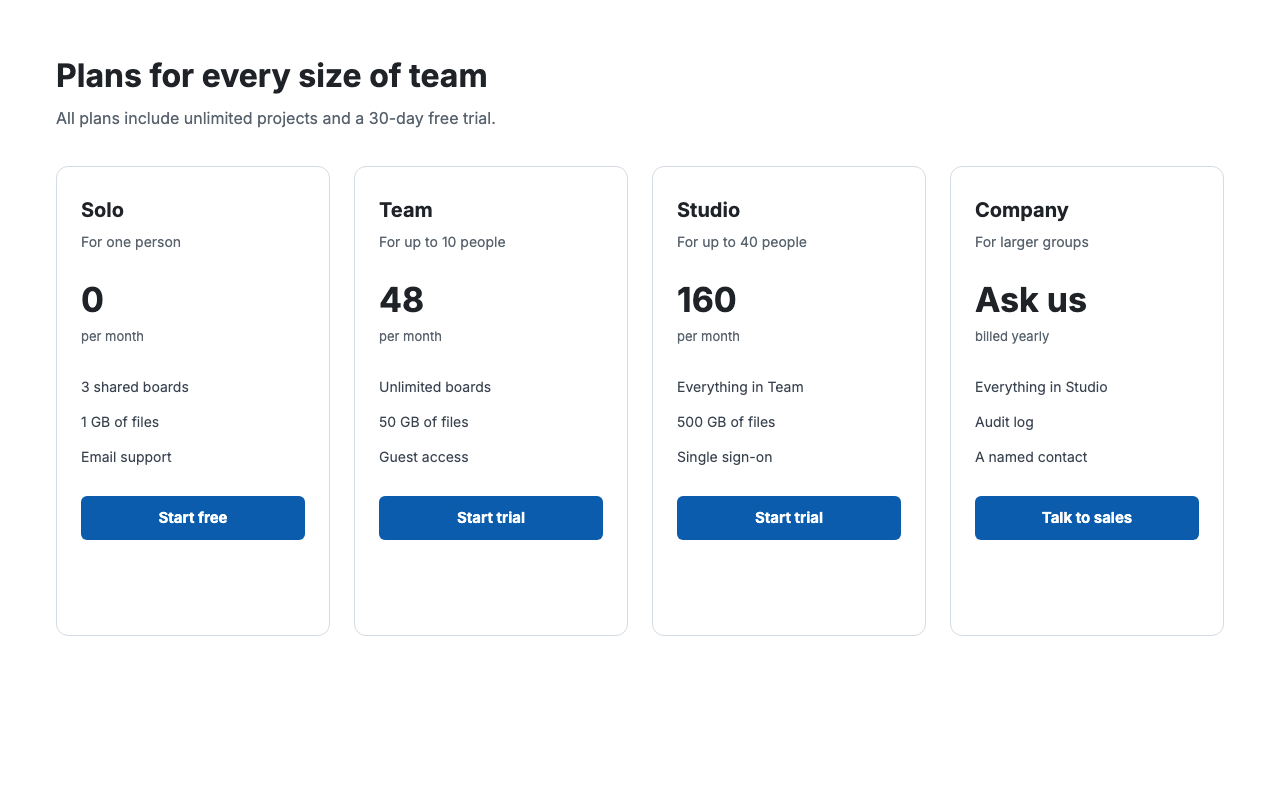
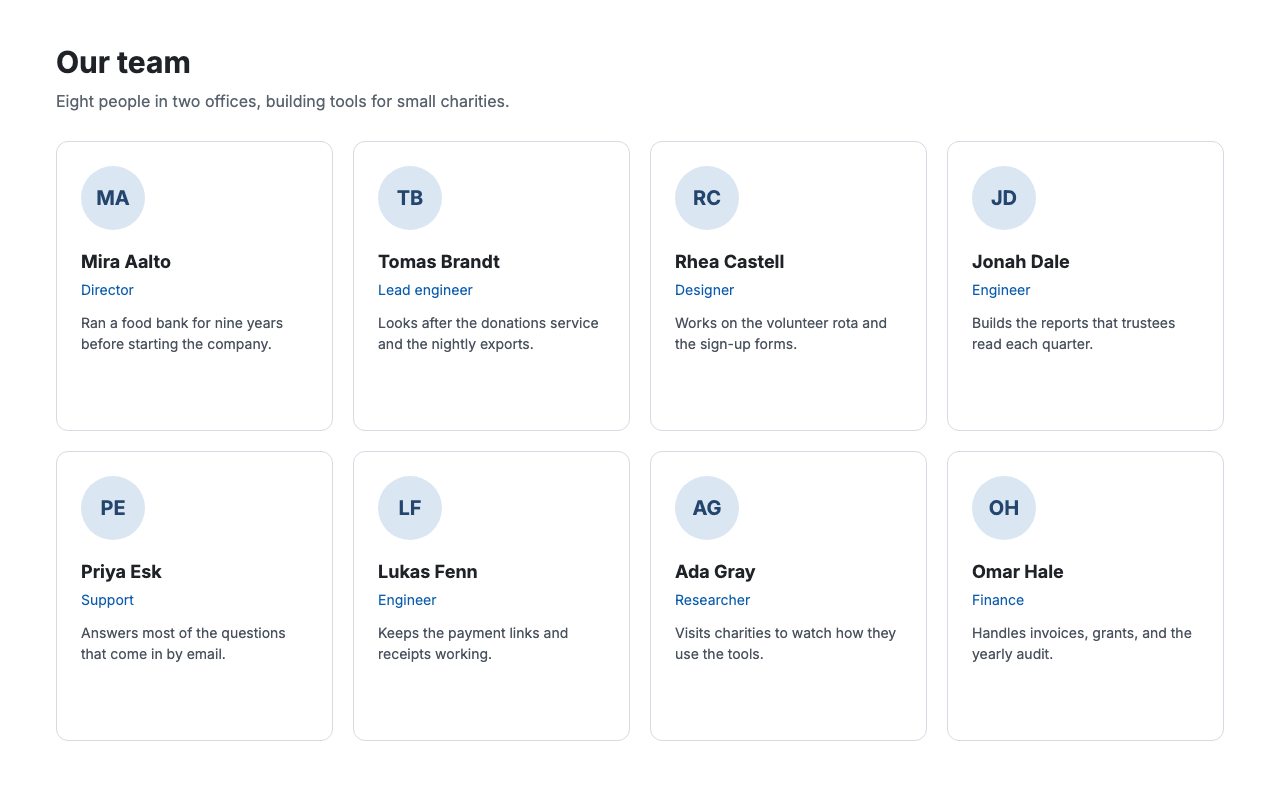
fix(packs): replace inconsistent-styles pair 2
Benjamin Jackson rejected the pricing-card pair with the note "reads
like a featured plan": on a pricing page, one card that looks different
reads as emphasis on purpose. The new pair is an "Our team" page with
eight member cards. No member has a reason to stand out, so the one
card with a grey fill, no border, and square corners reads as a
mistake. The pair uses the same defect.json and changes only declared
properties (FR-54 rule 3). It is written blind, for a reason that names
no answer from Jev (FR-54 rule 1).

Ticket: crit-cy8.18
PRD: FR-54, EV-4

Claude-Session: https://claude.ai/code/session_018ZcsNpaRtQyYZ2QBbu3enj

diff --git a/packs/layout/templates/inconsistent-repeated-styles--2.html b/packs/layout/templates/inconsistent-repeated-styles--2.html
@@ -7,28 +7,30 @@
     <script src="../../_renderer/base.js"></script>
     <link rel="stylesheet" href="../../_renderer/base.css">
     <style>
-      /* A pricing page with four plan cards in a row on a white page. Each card is white with a 1 px grey border and 12 px corners. The defect gives the third card a pale grey fill, no border, and square corners, as when one card comes from an older component. (OQ-17) */
-      h1 { font-size: 32px; text-align: left; padding: 52px 56px 6px; }
-      .sub { padding: 0 56px 36px; color: var(--color-muted); font-size: 16px; }
-      .row { display: flex; gap: 24px; padding: 0 56px; }
-      .plan { flex: 1; height: 470px; background: #fff; border: 1px solid #d5dbe2; border-radius: 12px; padding: 28px 24px; }
-      .plan h2 { font-size: 20px; margin-bottom: 6px; }
-      .plan .for { font-size: 14px; color: var(--color-muted); margin-bottom: 22px; }
-      .plan .price { font-size: 34px; font-weight: 700; margin-bottom: 2px; }
-      .plan .per { font-size: 13px; color: var(--color-muted); margin-bottom: 22px; }
-      .plan li { list-style: none; font-size: 14px; padding: 7px 0; color: #3a4350; }
-      .plan a { display: block; margin-top: 22px; text-align: center; background: var(--color-accent); color: #fff; font-weight: 700; font-size: 15px; padding: 11px 0; border-radius: 6px; }
-      [data-defect="on"] .odd { background-color: #eef1f4; border: 0 solid #d5dbe2; border-radius: 0; padding: 29px 25px; }
+      /* An "Our team" page with eight member cards in two rows of four. Each card is white with a 1 px grey border and 12 px corners, and shows a circle of initials, a name, a role, and a line about the person. The defect gives the sixth card a pale grey fill, no border, and square corners, as when one card comes from an older component. No card has a reason to stand out. (OQ-17) */
+      h1 { font-size: 30px; padding: 40px 56px 4px; }
+      .sub { padding: 0 56px 28px; color: var(--color-muted); font-size: 16px; }
+      .grid { display: grid; grid-template-columns: repeat(4, 1fr); gap: 20px; padding: 0 56px; }
+      .card { height: 290px; background: #fff; border: 1px solid #d5dbe2; border-radius: 12px; padding: 24px; }
+      .card i { display: flex; align-items: center; justify-content: center; width: 64px; height: 64px; border-radius: 50%; background: #dbe6f3; color: #24466e; font-style: normal; font-weight: 700; font-size: 20px; margin-bottom: 18px; }
+      .card h2 { font-size: 18px; margin-bottom: 4px; }
+      .card .role { font-size: 14px; color: var(--color-accent); margin-bottom: 12px; }
+      .card p { font-size: 14px; line-height: 1.5; color: #4a525e; }
+      [data-defect="on"] .odd { background-color: #eef1f4; border: 0 solid #d5dbe2; border-radius: 0; padding: 25px; }
     </style>
   </head>
   <body>
-    <h1>Plans for every size of team</h1>
-    <p class="sub">All plans include unlimited projects and a 30-day free trial.</p>
-    <div class="row">
-      <div class="plan"><h2>Solo</h2><div class="for">For one person</div><div class="price">0</div><div class="per">per month</div><ul><li>3 shared boards</li><li>1 GB of files</li><li>Email support</li></ul><a>Start free</a></div>
-      <div class="plan"><h2>Team</h2><div class="for">For up to 10 people</div><div class="price">48</div><div class="per">per month</div><ul><li>Unlimited boards</li><li>50 GB of files</li><li>Guest access</li></ul><a>Start trial</a></div>
-      <div class="plan odd"><h2>Studio</h2><div class="for">For up to 40 people</div><div class="price">160</div><div class="per">per month</div><ul><li>Everything in Team</li><li>500 GB of files</li><li>Single sign-on</li></ul><a>Start trial</a></div>
-      <div class="plan"><h2>Company</h2><div class="for">For larger groups</div><div class="price">Ask us</div><div class="per">billed yearly</div><ul><li>Everything in Studio</li><li>Audit log</li><li>A named contact</li></ul><a>Talk to sales</a></div>
+    <h1>Our team</h1>
+    <p class="sub">Eight people in two offices, building tools for small charities.</p>
+    <div class="grid">
+      <div class="card"><i>MA</i><h2>Mira Aalto</h2><div class="role">Director</div><p>Ran a food bank for nine years before starting the company.</p></div>
+      <div class="card"><i>TB</i><h2>Tomas Brandt</h2><div class="role">Lead engineer</div><p>Looks after the donations service and the nightly exports.</p></div>
+      <div class="card"><i>RC</i><h2>Rhea Castell</h2><div class="role">Designer</div><p>Works on the volunteer rota and the sign-up forms.</p></div>
+      <div class="card"><i>JD</i><h2>Jonah Dale</h2><div class="role">Engineer</div><p>Builds the reports that trustees read each quarter.</p></div>
+      <div class="card"><i>PE</i><h2>Priya Esk</h2><div class="role">Support</div><p>Answers most of the questions that come in by email.</p></div>
+      <div class="card odd"><i>LF</i><h2>Lukas Fenn</h2><div class="role">Engineer</div><p>Keeps the payment links and receipts working.</p></div>
+      <div class="card"><i>AG</i><h2>Ada Gray</h2><div class="role">Researcher</div><p>Visits charities to watch how they use the tools.</p></div>
+      <div class="card"><i>OH</i><h2>Omar Hale</h2><div class="role">Finance</div><p>Handles invoices, grants, and the yearly audit.</p></div>
     </div>
   </body>
 </html>
